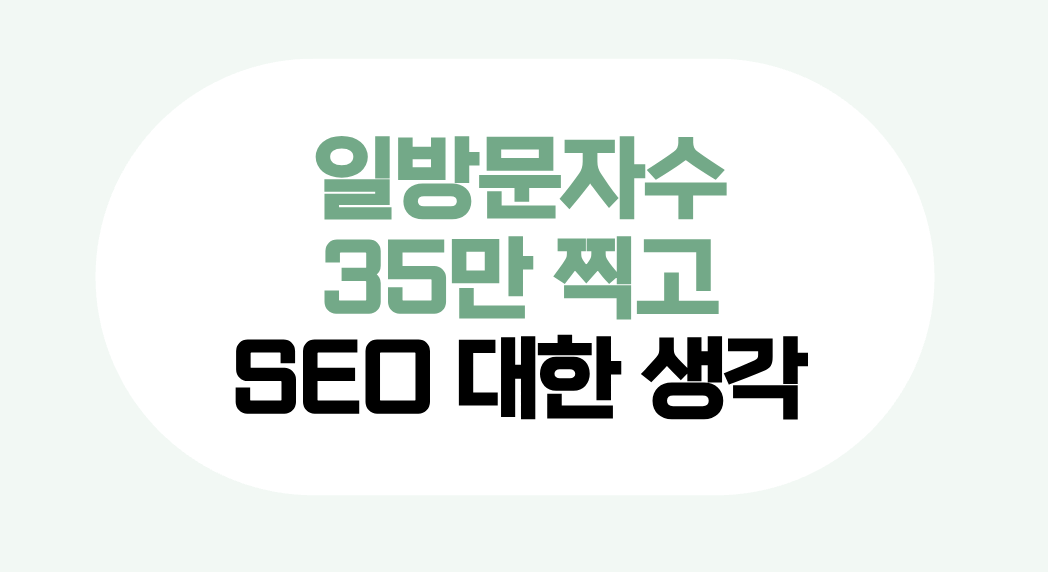
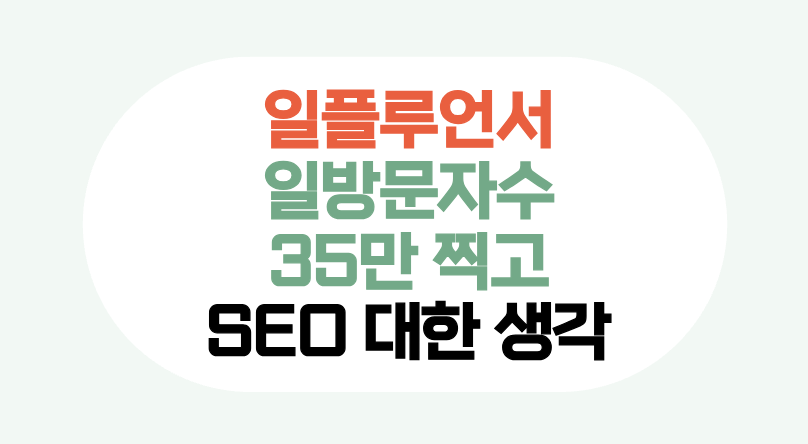
docs: 2025-07-07-2.5배 수익냈던 조각투자와 블록체인 알아보기

Changed region(s): [[0.2166, 0.1757, 0.7735, 0.8198]]

diff --git a/_posts/2025-07-07-2.5배 수익냈던 조각투자와 블록체인 알아보기.md b/_posts/2025-07-07-2.5배 수익냈던 조각투자와 블록체인 알아보기.md
@@ -1,0 +1,156 @@
+---
+title: "2.5배 수익냈던 조각투자와 블록체인 알아보기"
+date: 2025-07-07 22:10:00 +0800
+categories: [Programming, Blockchain]
+tags: [Programming, Blockchain]
+image:
+  path: /assets/img/posts/2025-07-07-2.5배 수익냈던 조각투자와 블록체인 알아보기/1.png
+---
+
+## Objective
+
+<br>
+실제 이용해봤던 조각투자 플랫폼에 대한 흥미로운 이야기를 하면서 해당 투자에 사용되었던 블록체인의 원리를 알아보겠습니다.
+
+<img src="/assets/img/posts/2025-07-07-2.5배 수익냈던 조각투자와 블록체인 알아보기/1.png" alt="thumnail">
+
+
+### 투자와 블록체인에 대한 생각
+
+<br>
+
+투자는 대학교 1학년 때부터 도서관에서 관련 책을 많이 읽어봤을 정도로 공부했고 경제학 수업도 들어봤을만큼 관심이 있었는데,
+실제로 할 때에는 주의가 필요하다고 생각해서
+할 게 없거나 모르겠으면 1년에 1번도 하지 않았고,
+보통 1년에 1~5가지(또는 종목)을 골라서 투자했기 때문에
+거의 수익이 나지 않아 실망한 경우는 있었으나 손해를 본 적은 없었습니다.
+
+이후에 블록체인이라는 개념이 생겼는데 이 블록체인 개발자 친구가 예전에 있었기 때문에 코인과 관련이 있다고만 생각했었는데, 투자 기록에도 사용할 수 있다는 것을 실제 투자를 하고 자세히 알아보게 되었습니다.
+
+<hr>
+<br>
+
+### 영화에 대한 조각투자
+
+<br>
+<img src="/assets/img/posts/2025-07-07-2.5배 수익냈던 조각투자와 블록체인 알아보기/8.png" alt="영화 포스터">
+
+영화 역사상 최대 수익률인 174%를 달성했던 '범죄도시3'에
+1인 최대 투자 금액이었던 500만원을 투자해보았습니다.
+
+<br>
+
+<img src="/assets/img/posts/2025-07-07-2.5배 수익냈던 조각투자와 블록체인 알아보기/6.png" alt="수익률">
+
+500만원을 투자했더니 약 1230만원이 돌아왔습니다.
+세금이 15%나 있어서 세금만 130만원이 제외되고 돌아온 순 수익입니다.
+
+<img src="/assets/img/posts/2025-07-07-2.5배 수익냈던 조각투자와 블록체인 알아보기/7.png" alt="수익금">
+
+플랫폼은 펀더풀을 이용했는데
+문화예술에 전반에 대한 수익률이 높지 않아서 비추하지만, 정산을 잘 받았습니다.
+
+펀더풀에서 이를 '조각투자', 즉 2명 이상의 투자자가 실물이나 그 밖에 자산에 공동투자하는 형식이라고 쓴 글이 있어서 이것도 조각투자의 일종이라는 걸 알게 되었습니다.
+
+그런데 이 플랫폼은 블록체인을 따로 쓰지는 않는 것 같고
+계좌도 증권계좌를 이용하는 등 기록도 증권사 같이 운영이 되었기 때문에
+아래에서 블록체인 실제 사용을 예시를 보겠습니다.
+
+<hr>
+<br>
+
+### 미술품 조각투자와 블록체인 사용
+
+<br>
+
+<img src="/assets/img/posts/2025-07-07-2.5배 수익냈던 조각투자와 블록체인 알아보기/2.png" alt="명세서">
+
+미술품에 개인 최대 투자 금액인 500만원을 투자하고
+1년 4개월 만에 매도가 되어 10%가격 상승에 대한 정산을 받았습니다.
+
+<img src="/assets/img/posts/2025-07-07-2.5배 수익냈던 조각투자와 블록체인 알아보기/3.png" alt="정산금">
+
+<br>
+
+위의 영화는 역사상 최대 수익률이어서 비교가 되는 것이지
+어려운 시기에 사실 미술품이 이렇게 단기간에 10% 상승한 것도
+유명 화가의 작품이어서라고 생각합니다.
+
+아무튼 이 아트앤가이드라는 플랫폼에서는 조각투자에 대한 기록을 블록체인에 하고 있었습니다.
+
+<br>
+
+<img src="/assets/img/posts/2025-07-07-2.5배 수익냈던 조각투자와 블록체인 알아보기/4.png" alt="블록체인">
+
+<br>
+
+공동소유권은 블록체인에 기록되는데, 당시에 카톡 메시지가 와서 확인도 되었던 것으로 기억합니다.
+
+이때 블록체인의 개념이 뭔지 자세히 알게 되었는데,
+설명에 따르면, 수천대의 컴퓨터에 동시에 기록이 되기 때문에 각자의 소유권에 대해 위조와 변조가 불가능하답니다.
+
+소유권 확인을 해보았더니 저 말고 다른 공동소유권자의 비공개 처리된 리스트가 있어서 사실 봤을 때는 그냥 장부 작성한 것 같았는데 이게 시각적으로 표현하는 것이지 실제로는 블록체인에 기록되나 봅니다.
+
+즉 실물 장부 또는 컴퓨터상의 파일은 서버에 올라가 있으면 해킹의 문제, 그리고 관리를 하더라도 위조/변조의 문제가 있는데 블록체인을 활용한다면 수천대의 컴퓨터에 동시에 기록된다니 그 중 1개가 잘못된다고 해도 원본이랑 대조가 가능해서 이런 소유권을 인증하는데 좋은 방법인 것 같습니다.
+
+<hr>
+<br>
+
+
+### NFT와 블록체인
+
+<br>
+
+미술계에서는 NFT 아트페어도 있었을 정도로 주목 받았던 기술인데 이와 관련해 간단히 알아보겠습니다.
+
+유명한 재단에서도 이렇게 NFT 아트페어를 하는 모습을 봤습니다.
+
+<br>
+
+<img src="/assets/img/posts/2025-07-07-2.5배 수익냈던 조각투자와 블록체인 알아보기/9.png" alt="NFT">
+
+<br>
+
+NFT가 대체 불가능한 토큰이라는 뜻인데, 독특해서 다른 것과 교환할 수 없는, 즉 세상에 1개 존재하는 예술품과 같다고 보면 되겠습니다.
+
+아티스트들은 이미지를 공유하고, 실제 항목을 보면 원본 파일 대부분이 타사 서버에 저장되어 있다고 합니다.
+
+오리지널 NFT의 실제 호스팅 URL에는 누구나 접근할 수 있으며
+소유할 필요가 없고 원래의 크기과 포맷으로 접근할 수 있습니다.
+
+유명한 NFT 플랫폼은 오픈씨가 있는데, 오픈씨를 개발할 때 여기에 포함된 모든 NFT는 인터넷 컴퓨터 블록체인에서 만들어진다고 합니다.
+
+더 오래 전으로 가보면, 블록체인과 코인이 관련있는데, 이에 대해 간단히 요약해 보겠습니다.
+
+<hr>
+<br>
+
+### 코인과 블록체인
+
+<br>
+
+<img src="/assets/img/posts/2025-07-07-2.5배 수익냈던 조각투자와 블록체인 알아보기/10.png" alt="coin">
+
+<br>
+
+코인을 갖고 싶다면 고유의 블록체인이 필요합니다.
+
+반면에, 토큰은 기존의 블록체인, 즉 이더리움이나 인터넷 컴퓨터 블록체인을 이용할 수 있습니다.
+
+예를들어, 비트코인(BTC)는 비트코인 블록체인 위에서 동작하는 고유 화폐라서 자기만의 생태계를 가지고 있습니다.
+
+또 다른 예시로, DOGE 도지코인은 자체의 블록체인이 있는데, 비트코인 블록체인의 복사본인 셈입니다.
+즉 누군가 포크를 해서 블록체인의 복제품을 럭키코인으로 부르기 시작했고, 그 뒤의 사람이 농담으로 행운의 동전을 만들었습니다.
+
+즉, 코인을 만드려면 먼저 블록체인을 만들어야 되는데,
+새로운 코인을 만들려면 완전히 새로운 블록체인 네트워크를 처음부터 구축할 수도 있지만 매우 어려워서,
+위와 같이 기존에 안정성이 검증된 블록체인(예: 비트코인, 이더리움 등)의 코드를 복사(포크)해서 자신만의 블록체인을 만들 수도 있습니다.
+
+즉 기존 블록체인의 복사본을 만들면 되는데,
+다만 블록체인이 안전하려면 많은 수의 채굴자를 모집해야 합니다.
+
+반면에, 토큰은 자체 블록체인이 없습니다.
+대신 이더리움(ERC-20 토큰) 블록체인과 같이 이미 존재하는 블록체인 위해서 발행되고 동작됩니다.
+이 토큰에 대한 예시가 바로 이더리움 기반의 수많은 DeFi 토큰이나 'NFT'가 되겠습니다.
+
+

diff --git a/_posts/2025-07-07-블로그 일방문자수 35만 찍고 SEO에 대한 생각.md b/_posts/2025-07-07-블로그 일방문자수 35만 찍고 SEO에 대한 생각.md
@@ -1,5 +1,5 @@
 ---
-title: "블로그 일방문자수 35만 찍고 SEO에 대한 생각"
+title: "일플루언서 블로그 일방문자수 35만 찍고 SEO에 대한 생각"
 date: 2025-07-07 20:00:00 +0800
 categories: [Programming, ETC]
 tags: [Programming, ETC]
